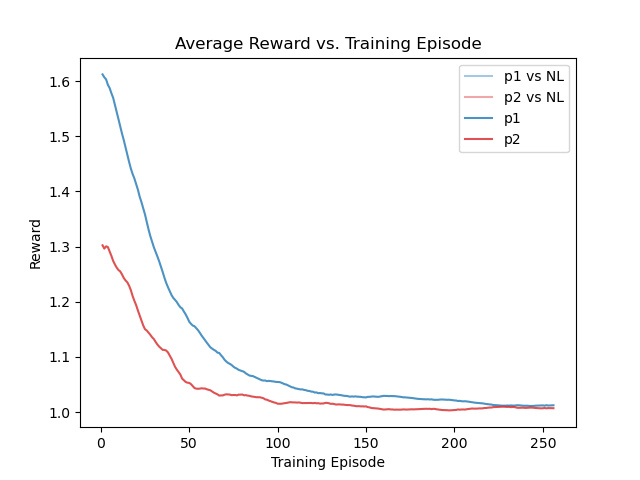
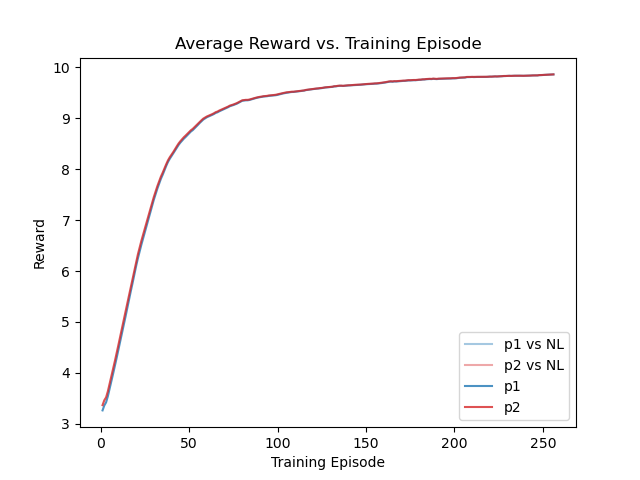
p2 = 0

diff --git a/src/main_mfos_self.py b/src/main_mfos_self.py
@@ -406,7 +406,8 @@ if __name__ == "__main__":
 
     # ezc
     pd_payoff_mat_1 = torch.Tensor([[10.0, 3.0], [2.0, 0.0]]).to(device)
-    pd_payoff_mat_2 = pd_payoff_mat_1.T
+    # pd_payoff_mat_2 = pd_payoff_mat_1.T
+    pd_payoff_mat_2 = torch.zeros_like(pd_payoff_mat_1)
     pd = (pd_payoff_mat_1, pd_payoff_mat_2)
     pds = [pd]
     # lrs = [0.1, 0.3, 1, 3, 10]
